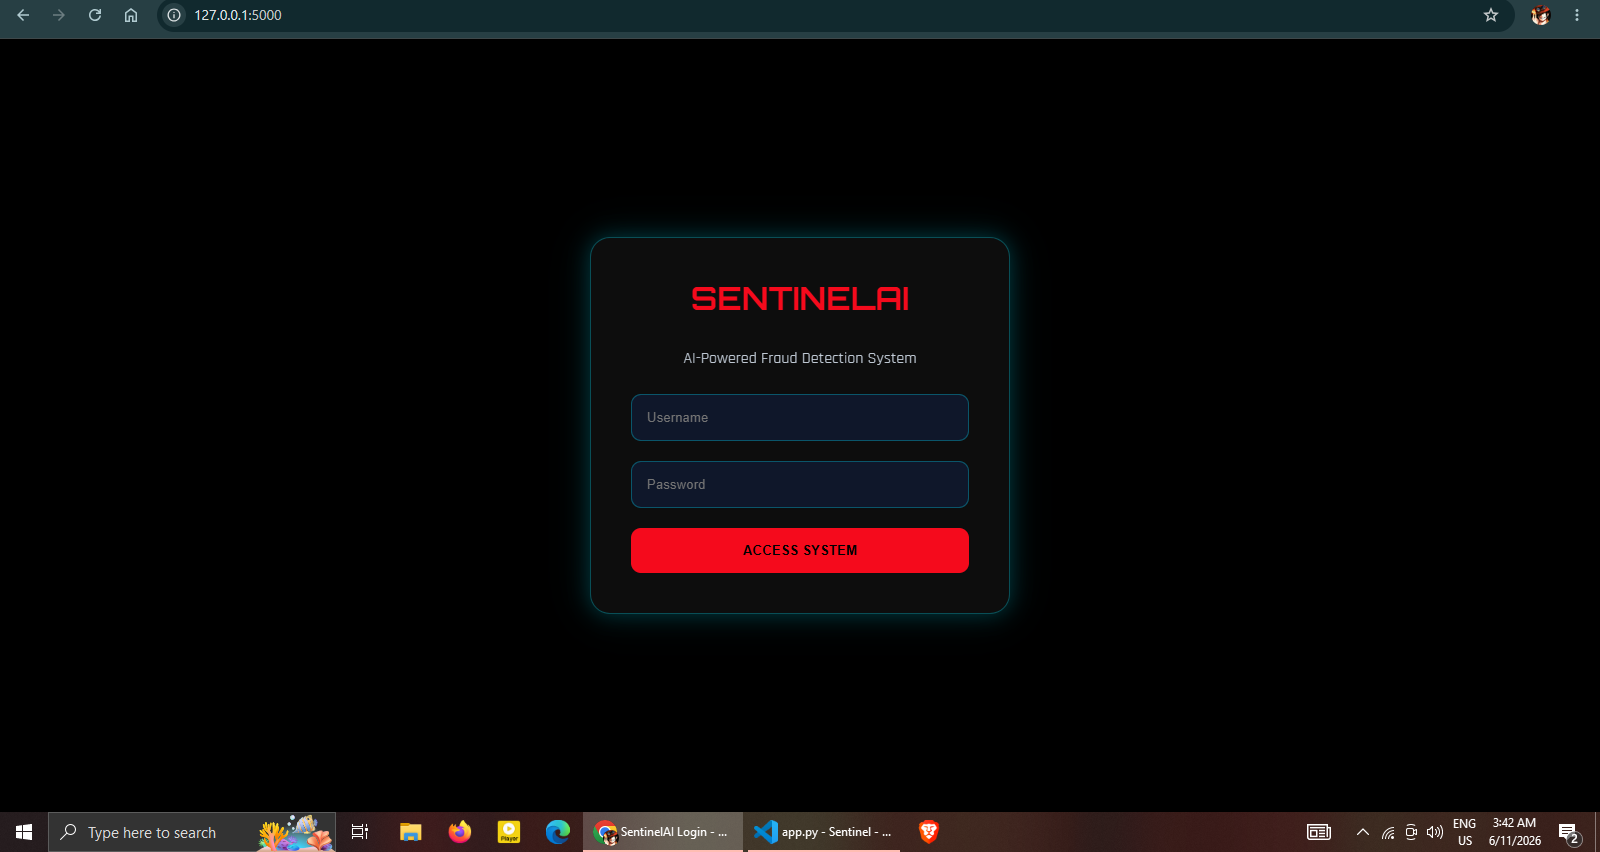
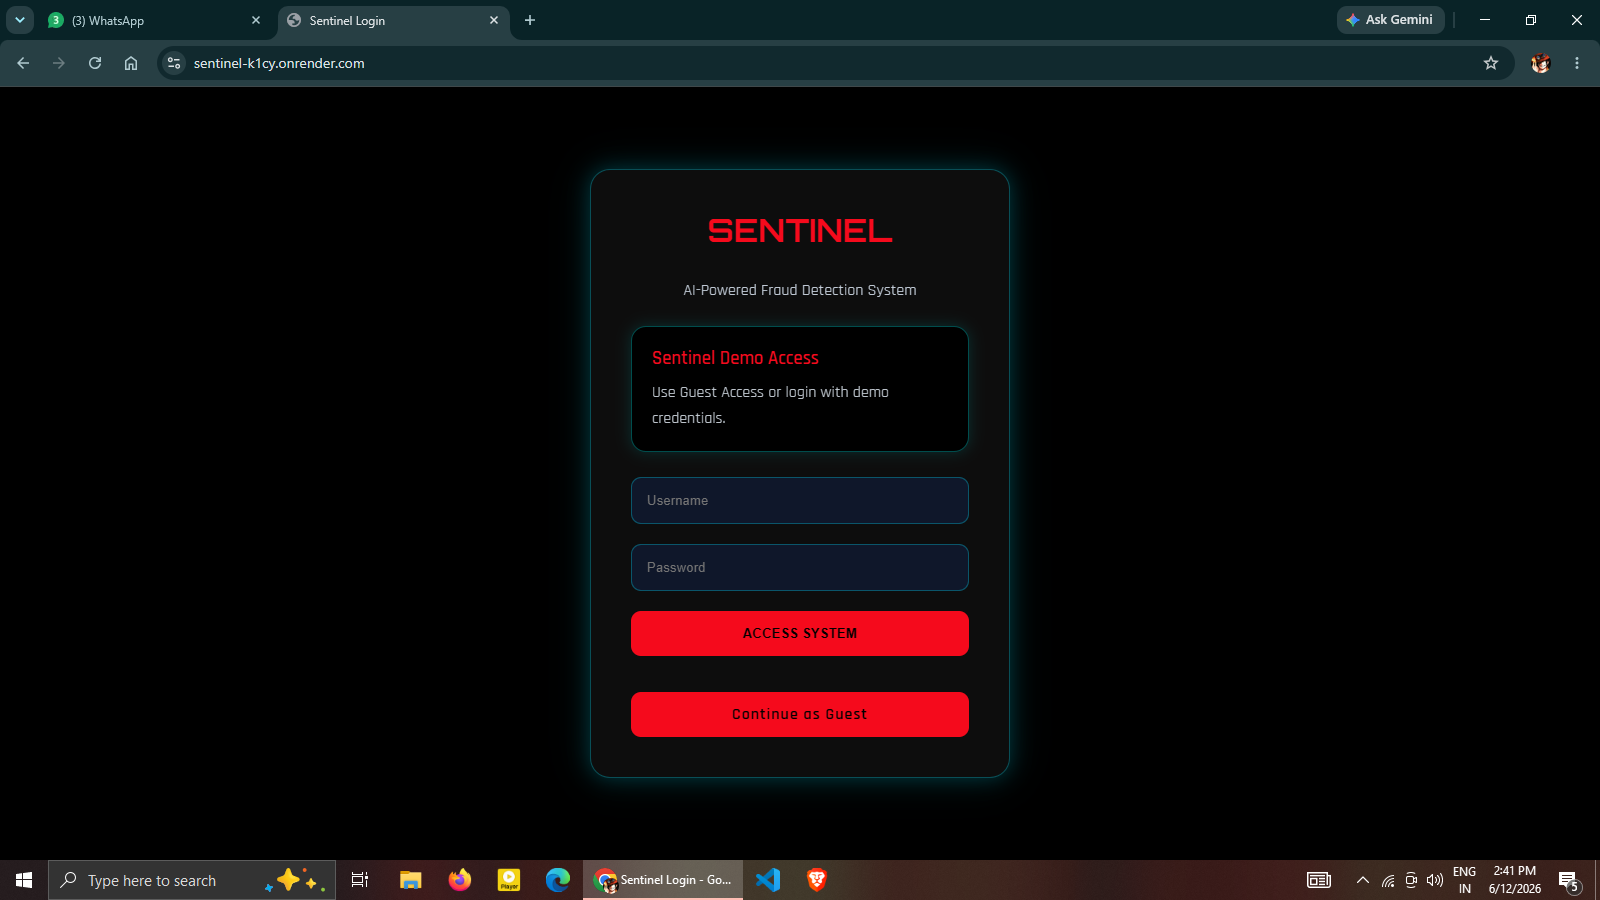
Add live demo link to README

diff --git a/README.md b/README.md
@@ -3,6 +3,9 @@ Sentinel — AI-Powered Credit Card Fraud Detection System
 Sentinel is an end-to-end machine learning project for detecting fraudulent credit card transactions. It combines a trained fraud-detection model with a Flask-based web application that allows users to upload transaction datasets (CSV files), analyze them, and download both complete results and fraud-only reports.
 
 ---
+##Live Demo:
+[Try Sentinel Live](https://sentinel-k1cy.onrender.com)
+---
 
 ##Features
 